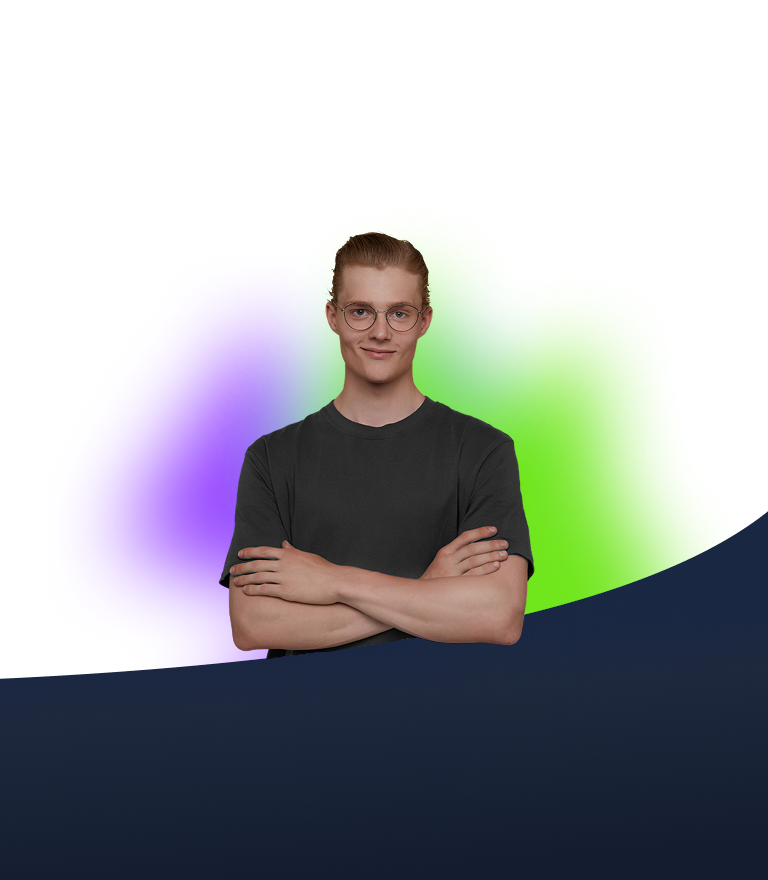
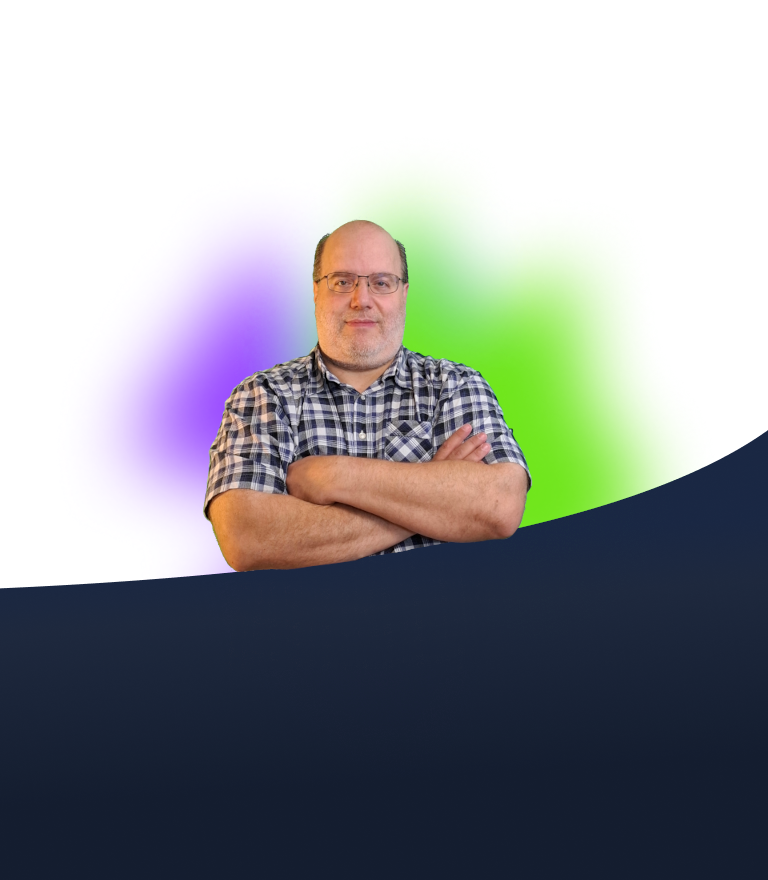
feat(about-me): update hero images for all breakpoints & adjust wrapper spacing
- Replaced about-me hero image with finalized edited photo
- Added responsive PNG variants:
  - 1440x880 (desktop)
  - 1024x880 (tablet)
  - 768x880 (mobile)
- Adjusted margin-top of .about-me__wrapper for improved vertical alignment
- Verified responsive layout across breakpoints

diff --git a/src/app/main-content/about-me/about-me.component.scss b/src/app/main-content/about-me/about-me.component.scss
@@ -206,7 +206,7 @@
       flex-direction: column;
       align-items: center;
       min-height: 880px;
-      margin-top: -75px;
+      margin-top: -30px;
     }
 
     .about-me__bg {
@@ -254,7 +254,7 @@
   }
 
   .about-me__wrapper {
-    margin-top: -60px;
+    margin-top: -20px;
   }
 }
 
@@ -263,7 +263,7 @@
       max-width: 380px;
   }
   .about-me__wrapper {
-    margin-top: -40px;
+    margin-top: 0px;
   }
 }
 
@@ -299,7 +299,7 @@
   }
 
   .about-me__wrapper {
-    margin-top: -40px;
+    margin-top: 0px;
   }
 
   .about-me__headline {
